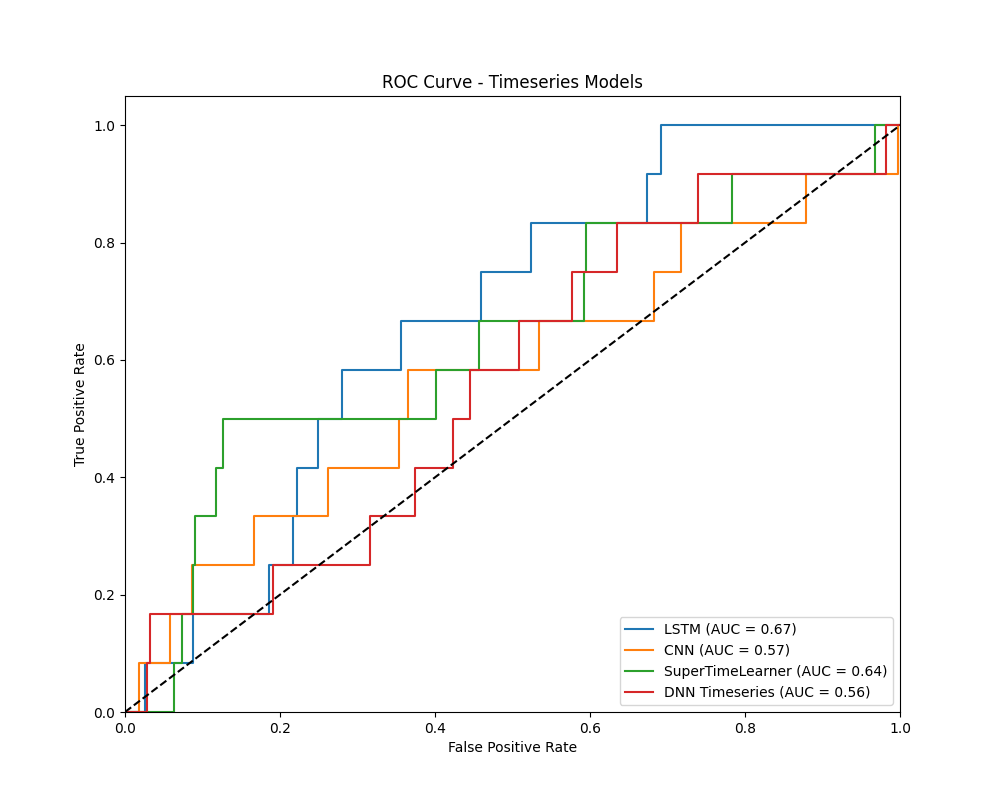
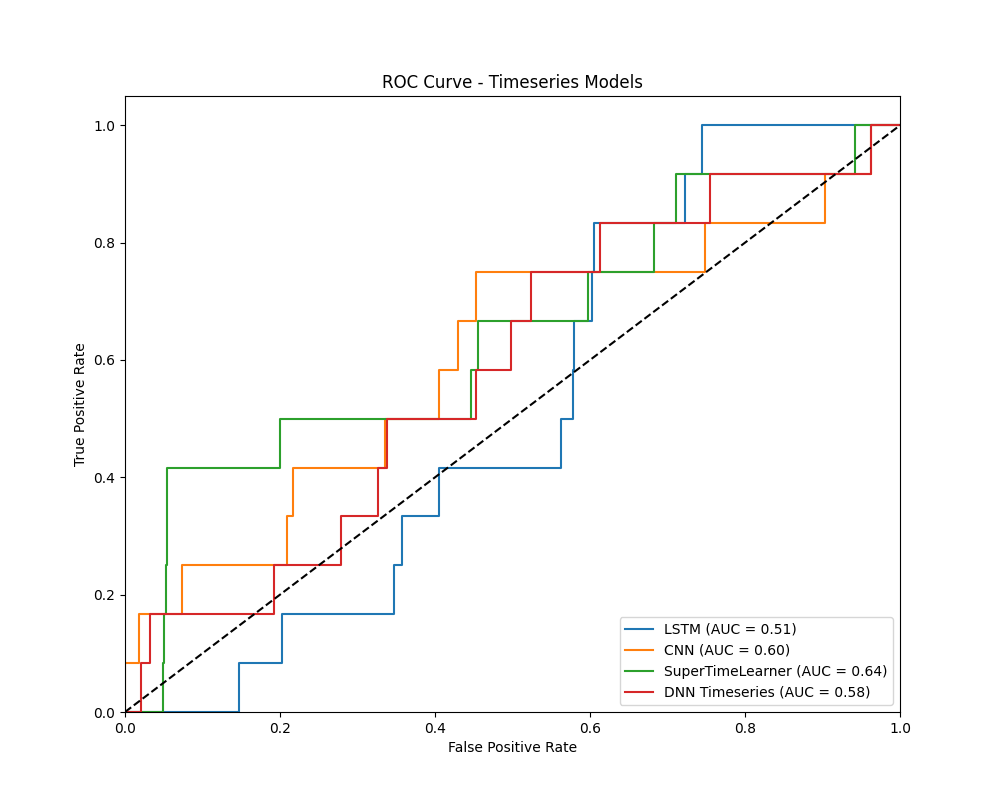
first shapley

diff --git a/shap_values.py b/shap_values.py
@@ -1,11 +1,138 @@
-"""
-SHAP values intprate the impact of having a certain value for a given feature in conmparison to the preidction wee would make if that feature took some baseline value.
-"""
+import numpy as np
+import pandas as pd
+import matplotlib.pyplot as plt
+import shap
+from sklearn.linear_model import LogisticRegression
+import torch
+from models.models import load_and_preprocess_data, DNNModel
 
-# Load up the mortality@30 data
-from data_preparation import load_and_prepare_data
+# Load and preprocess data
+days = [30] 
+directory = f"data/ml_inputs/mortality_{days[0]}"
+(
+    X_bxb_train, X_cat_train, y_train,
+    X_bxb_val, X_cat_val, y_val,
+    X_bxb_test, X_cat_test, y_test,
+) = load_and_preprocess_data(directory=directory)
+
+# Load up the saved DNN model
+dnn_model = DNNModel(X_cat_train.shape[1], [64,32], 1)
+dnn_model.load_state_dict(torch.load(f"saved_models/mortality/{days[0]}/dnn_model.pth"))
+dnn_model.eval()
 
 
-X_bxb, X_cat, y = load_and_prepare_data(30)
 
-print(X_bxb.shape)
+# Assuming previous code for data loading and model setup remains the same
+
+# Prepare the data
+background = torch.tensor(X_cat_train[:100], dtype=torch.float32)
+test_samples = torch.tensor(X_cat_val, dtype=torch.float32)
+
+# Create the SHAP explainer
+e = shap.DeepExplainer(dnn_model, background)
+
+# Compute SHAP values
+shap_values = e.shap_values(test_samples)
+
+# Get feature names
+cat_feature_names = [
+    "OUES", "VE_VO2_SLOPE", "VO2_WORK_SLOPE", "CHRONOTROPIC_INDEX",
+    "EXPROTOCOL", "HEIGHT", "WEIGHT", "SEX", "BSA", "EXERCISE_TIME",
+    "ETHNICITY", "IMD_SCORE", "PLANNEDOPTYPE"
+]
+
+# Reshape shap_values if necessary
+shap_values = np.array(shap_values).squeeze()
+
+# Get feature importance
+feature_importance = np.abs(shap_values).mean(0)
+feature_importance_df = pd.DataFrame({
+    'feature': cat_feature_names,
+    'importance': feature_importance
+})
+
+# Sort features by importance
+feature_importance_df = feature_importance_df.sort_values('importance', ascending=False)
+print("shap_values shape:", shap_values.shape)
+print("X_cat_val shape:", X_cat_val.shape)
+print("feature_importance shape:", feature_importance.shape)
+
+
+shap.summary_plot(shap_values, X_cat_val, feature_names=cat_feature_names)
+# import numpy as np
+# import pandas as pd
+# import matplotlib.pyplot as plt
+# import shap
+# from sklearn.linear_model import LogisticRegression
+# from sklearn.ensemble import GradientBoostingClassifier, RandomForestClassifier
+# from sklearn.svm import SVC
+# from sklearn.pipeline import make_pipeline
+# from sklearn.preprocessing import StandardScaler
+# from models.models import load_and_preprocess_data, SuperLearner
+
+# # Load and preprocess data
+# days = [30] 
+# directory = f"data/ml_inputs/mortality_{days[0]}"
+# (
+#     X_bxb_train, X_cat_train, y_train,
+#     X_bxb_val, X_cat_val, y_val,
+#     X_bxb_test, X_cat_test, y_test,
+# ) = load_and_preprocess_data(directory=directory)
+
+# # Limit to 100 training examples
+# X_cat_train = X_cat_train[:100]
+# y_train = y_train[:100]
+
+# # Create base models
+# base_models = [
+#     make_pipeline(StandardScaler(), LogisticRegression(random_state=42)),
+#     make_pipeline(StandardScaler(), GradientBoostingClassifier(random_state=42)),
+#     make_pipeline(StandardScaler(), SVC(probability=True, random_state=42)),
+#     make_pipeline(StandardScaler(), RandomForestClassifier(random_state=42)),
+# ]
+
+# # Create SuperLearner
+# superlearner = SuperLearner(base_models, meta_model=LogisticRegression())
+# superlearner.fit(X_cat_train, y_train)
+
+# # Get feature names
+# cat_feature_names = [
+#     "OUES", "VE_VO2_SLOPE", "VO2_WORK_SLOPE", "CHRONOTROPIC_INDEX",
+#     "EXPROTOCOL", "HEIGHT", "WEIGHT", "SEX", "BSA", "EXERCISE_TIME",
+#     "ETHNICITY", "IMD_SCORE", "PLANNEDOPTYPE"
+# ]
+
+# # Create base models
+# base_models = [
+#     make_pipeline(StandardScaler(), LogisticRegression(random_state=42)),
+#     make_pipeline(StandardScaler(), GradientBoostingClassifier(random_state=42)),
+#     make_pipeline(StandardScaler(), SVC(probability=True, random_state=42)),
+#     make_pipeline(StandardScaler(), RandomForestClassifier(random_state=42)),
+# ]
+
+# # Create and train SuperLearner
+# superlearner = SuperLearner(base_models, meta_model=LogisticRegression())
+# superlearner.fit(X_cat_train, y_train)
+
+# # Define a custom prediction function for the SuperLearner
+# def superlearner_predict(X):
+#     base_predictions = []
+#     for model in superlearner.base_models:
+#         # Get predictions from each base model
+#         base_pred = model.predict_proba(X)[:, 1]  # Probability of the positive class
+#         base_predictions.append(base_pred)
+#     # Stack base model predictions as input features for the meta-model
+#     meta_features = np.column_stack(base_predictions)
+#     # Get final predictions from the meta-model
+#     final_pred = superlearner.meta_model.predict_proba(meta_features)[:, 1]
+#     return final_pred
+
+# # Initialize SHAP KernelExplainer with a background sample
+# background_sample = shap.sample(X_cat_train, 50)  # Smaller sample for efficiency
+# explainer = shap.KernelExplainer(superlearner_predict, background_sample)
+
+# # Compute SHAP values for the validation set
+# shap_values = explainer.shap_values(X_cat_val)
+
+# # Plot SHAP summary plot
+# shap.summary_plot(shap_values, X_cat_val, feature_names=cat_feature_names)

diff --git a/run_mort_models.py b/run_mort_models.py
@@ -354,6 +354,12 @@ def main():
             y_test,
         ) = load_and_preprocess_data(directory=directory)
 
+        # from the cat data drop ethnicity and sex (index 4 and 7)
+
+        X_cat_train = np.delete(X_cat_train, [4, 7], axis=1)
+        X_cat_val = np.delete(X_cat_val, [4, 7], axis=1)
+        X_cat_test = np.delete(X_cat_test, [4, 7], axis=1)
+
         X_bxb_train_tensor = torch.FloatTensor(X_bxb_train)
         X_cat_train_tensor = torch.FloatTensor(X_cat_train)
         y_train_tensor = torch.FloatTensor(y_train).unsqueeze(1)

diff --git a/models/models.py b/models/models.py
@@ -4,7 +4,6 @@ import torch
 import torch.nn as nn
 import torch.optim as optim
 from torch.utils.data import TensorDataset, DataLoader
-import wandb
 from sklearn.model_selection import ParameterGrid
 from imblearn.over_sampling import SMOTE
 from sklearn.preprocessing import StandardScaler

diff --git a/data_preparation.py b/data_preparation.py
@@ -99,6 +99,8 @@ def generate_mortality_data(days=365, output_folder=None):
     
     split_data = split_and_save_data(X_bxb, X_cat, y, output_folder)
     logger.info(f"Data has been split and saved in {output_folder}.")
+
+
     
     return split_data
 
